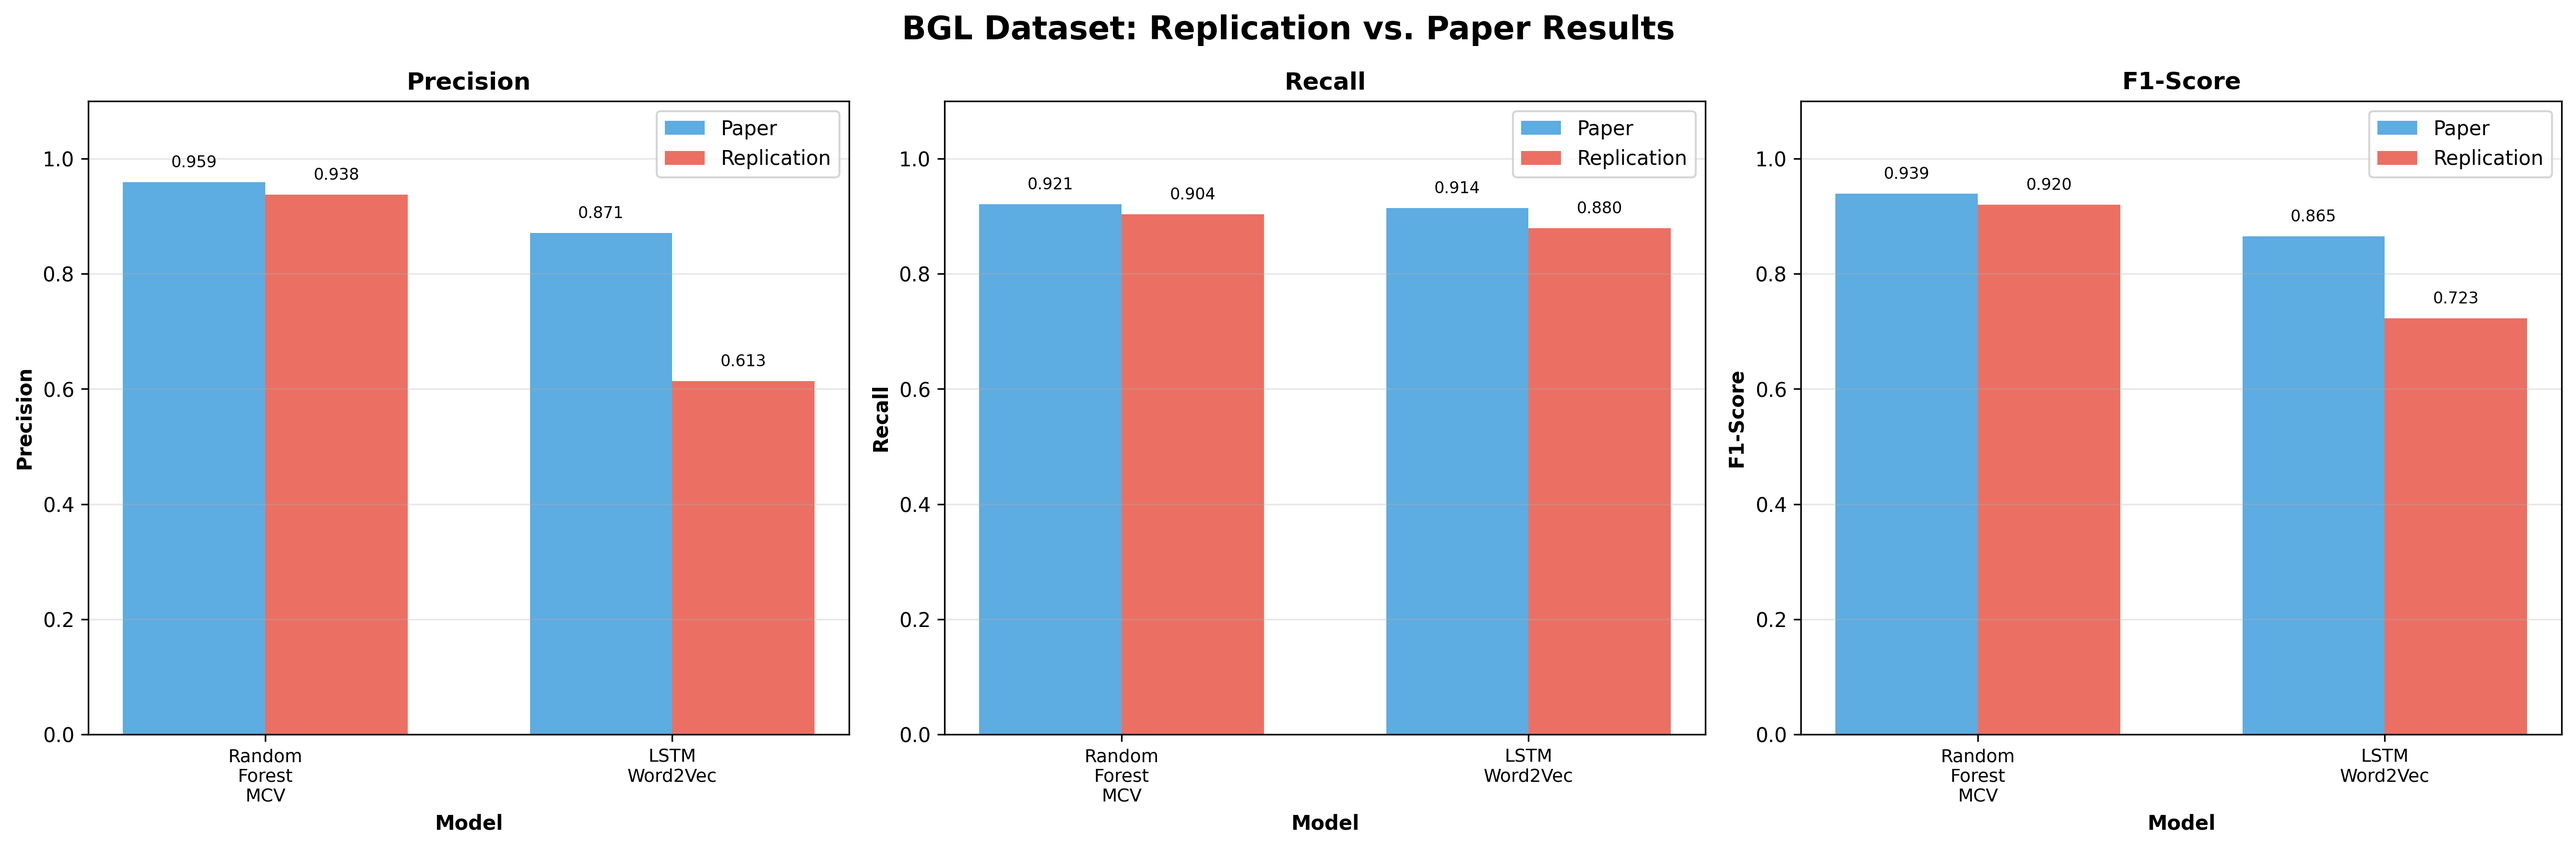
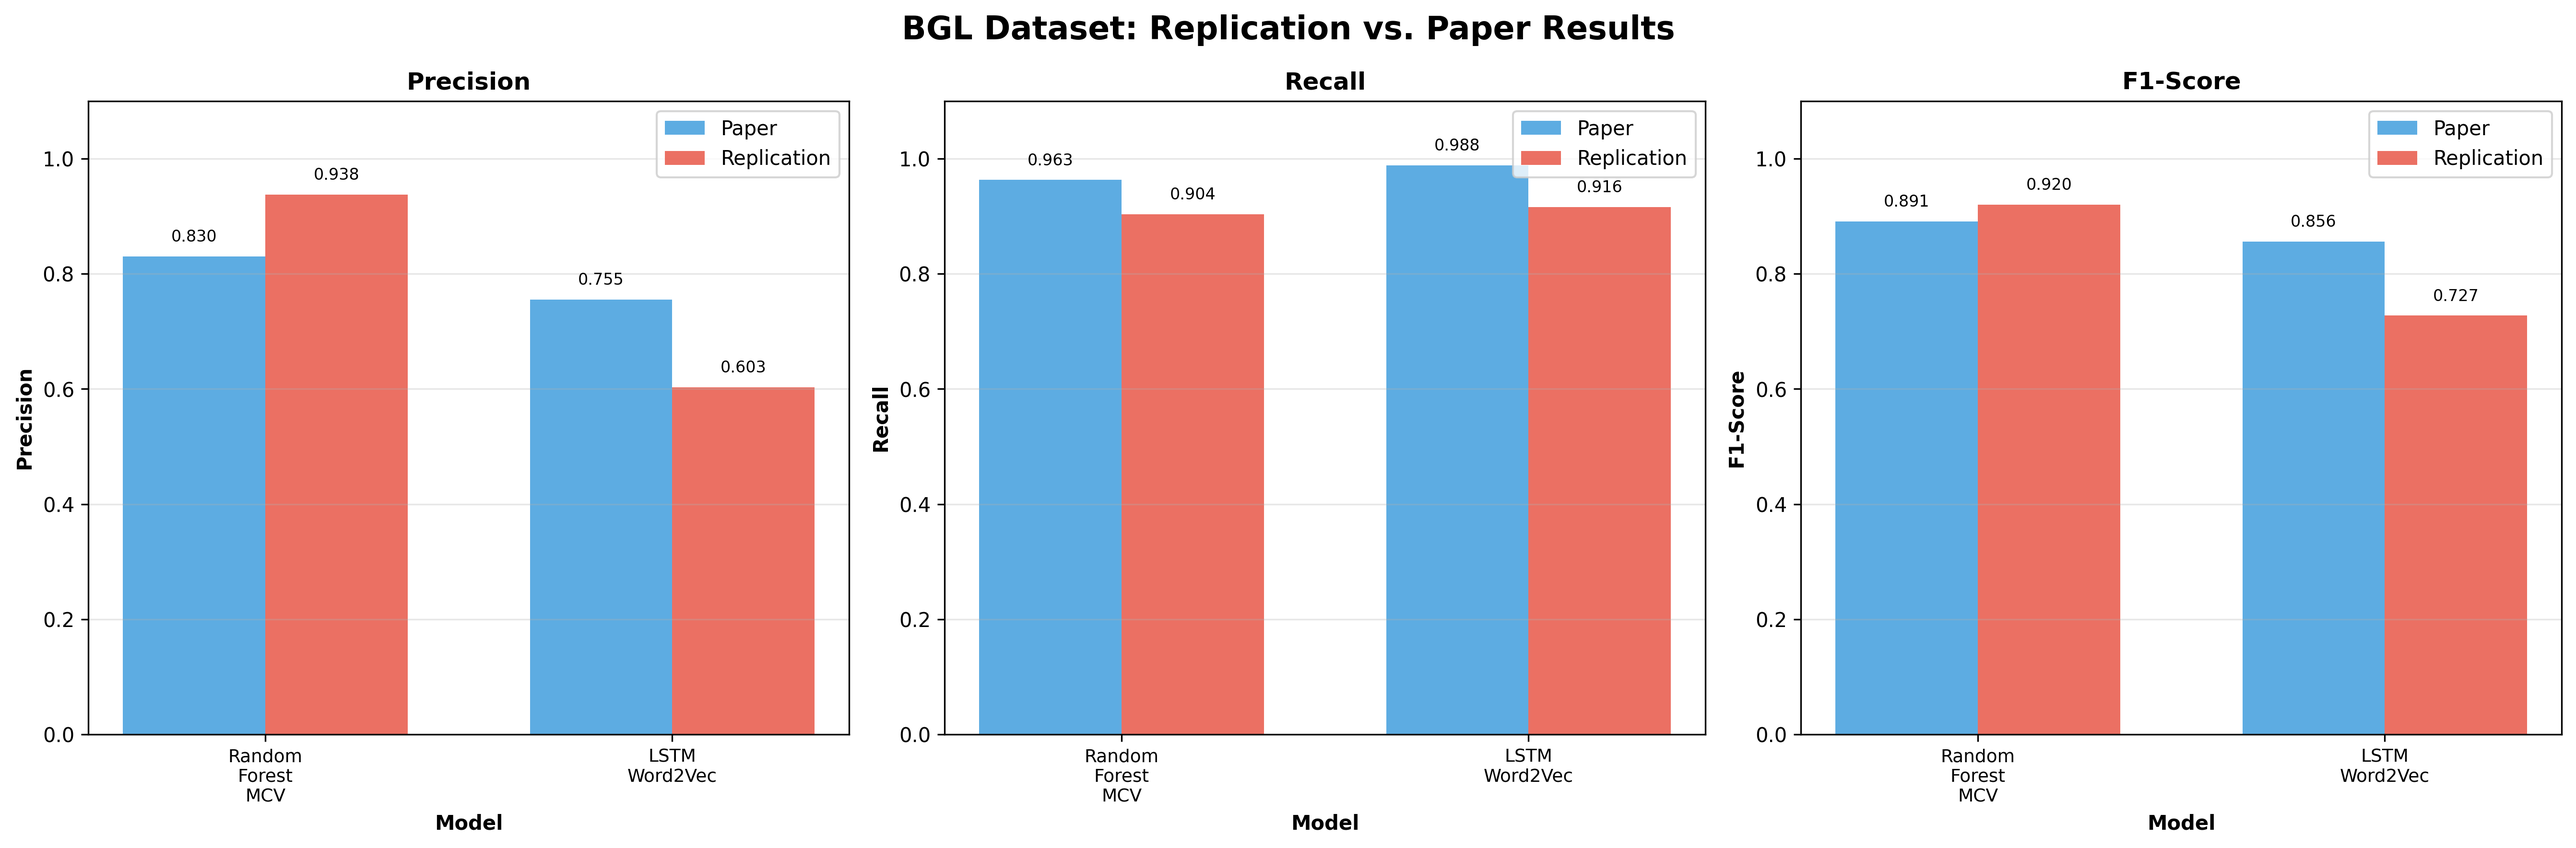
chore: fix original paper metrics mismatch

diff --git a/replication/scripts/07_compare_with_paper.py b/replication/scripts/07_compare_with_paper.py
@@ -15,7 +15,7 @@ PAPER_RESULTS = {
     "HDFS": {
         # Table 2 - HDFS results (Random Forest with MCV representation)
         "Random_Forest_MCV": {
-            "precision": 1.000,
+            "precision": 0.998,
             "recall": 1.000,
             "f1_score": 0.999,
             "auc": None  # Not always reported in paper
@@ -31,16 +31,16 @@ PAPER_RESULTS = {
     "BGL": {
         # Table 3 - BGL results (Random Forest with MCV representation)
         "Random_Forest_MCV": {
-            "precision": 0.959,
-            "recall": 0.921,
-            "f1_score": 0.939,
+            "precision": 0.830,
+            "recall": 0.963,
+            "f1_score": 0.891,
             "auc": None
         },
         # LSTM with Word2Vec (from Table 3)
         "LSTM_Word2Vec": {
-            "precision": 0.871,
-            "recall": 0.914,
-            "f1_score": 0.865,
+            "precision": 0.755,
+            "recall": 0.988,
+            "f1_score": 0.856,
             "auc": None
         }
     }

diff --git a/replication/config.py b/replication/config.py
@@ -1,6 +1,6 @@
 # Dataset selection
 # Options: "HDFS", "BGL", "Spirit", "Thunderbird"
-DATASET = "HDFS"
+DATASET = "BGL"
 
 # Data mode
 # Options: "sample" (100k lines for quick testing), "full" (complete dataset)
